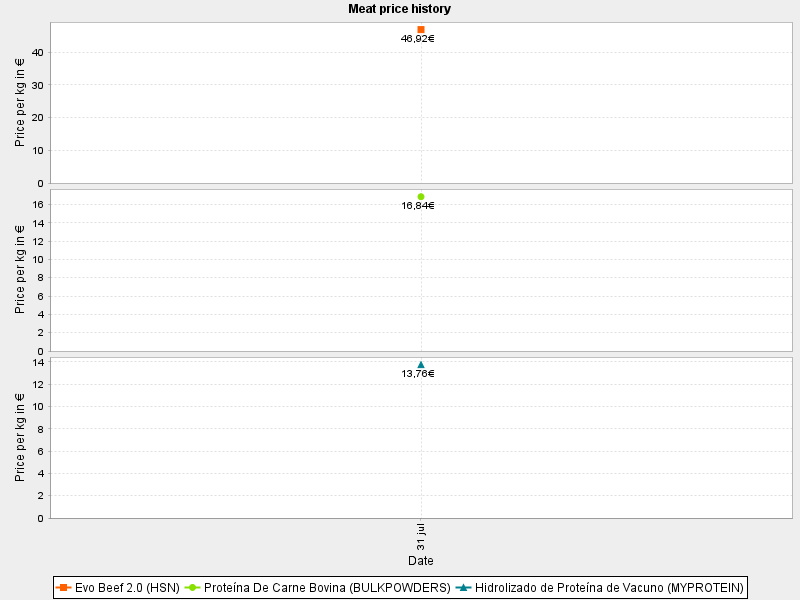
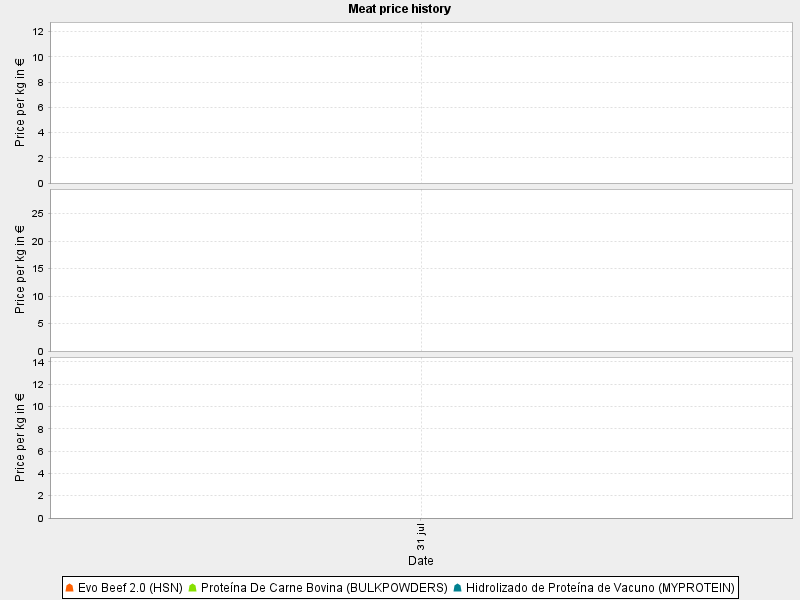
charts only shows 20 entries

diff --git a/whey-pricing/hsn.js b/whey-pricing/hsn.js
@@ -12,6 +12,8 @@ const products = [
   { url: 'https://www.hsnstore.com/marcas/raw-series/creatina-monohidrato-en-polvo', positionViaText: '1Kg' },
   { url: 'https://www.hsnstore.com/marcas/essential-series/digezyme-200mg', positionViaText: '240' },
   { url: 'https://www.hsnstore.com/marcas/raw-series/aminoacidos-esenciales-eaa-s-en-polvo', positionViaText: '1Kg' },
+  { url: 'https://www.hsnstore.com/marcas/raw-series/colageno-hidrolizado-bovino', positionViaText: '1Kg' },
+  { url: 'https://www.hsnstore.com/marcas/raw-series/l-glutamina-en-polvo', positionViaText: '1Kg' },
 ];
 const delay = ms => new Promise(resolve => setTimeout(resolve, ms));
 const prices = {};

diff --git a/whey-pricing/src/com/davidpoza/PriceChart.java b/whey-pricing/src/com/davidpoza/PriceChart.java
@@ -65,7 +65,7 @@ public class PriceChart {
       Collections.addAll(ret, new Integer[] {11,12,13});
       break;
     case "other":
-      Collections.addAll(ret, new Integer[] {14,15,16,17,18});
+      Collections.addAll(ret, new Integer[] {14,15,16,17,18,19,20});
       break;
     default:
       break;
@@ -155,7 +155,7 @@ public class PriceChart {
     for (int i=0; i < this.datasets.size(); i++) {
       MyLogger.log(PriceChart.class, LogTypes.DEBUG, "drawing chart:" + this.products.get(i).getBrand());
       XYDataset dataset = this.datasets.get(i);
-      NumberAxis rangeAxis = new NumberAxis("Price per kg in €");
+      NumberAxis rangeAxis = new NumberAxis("€/Kg");
       rangeAxis.setStandardTickUnits(NumberAxis.createIntegerTickUnits());
       
       XYLineAndShapeRenderer renderer = new  XYLineAndShapeRenderer();

diff --git a/whey-pricing/src/com/davidpoza/Product.java b/whey-pricing/src/com/davidpoza/Product.java
@@ -38,7 +38,7 @@ public class Product {
   public void readPrices() {
     this.prices.clear();
     try {
-      PreparedStatement statement = con.prepareStatement("SELECT date, amount, discount, product_id FROM prices_tbl WHERE product_id = ? ORDER BY date ASC");
+      PreparedStatement statement = con.prepareStatement("SELECT * FROM (SELECT date, amount, discount, product_id FROM prices_tbl WHERE product_id = ? ORDER BY date DESC LIMIT 20) ORDER BY date ASC");
       statement.setInt(1, this.id);
       statement.execute();
       ResultSet rs = statement.getResultSet();
